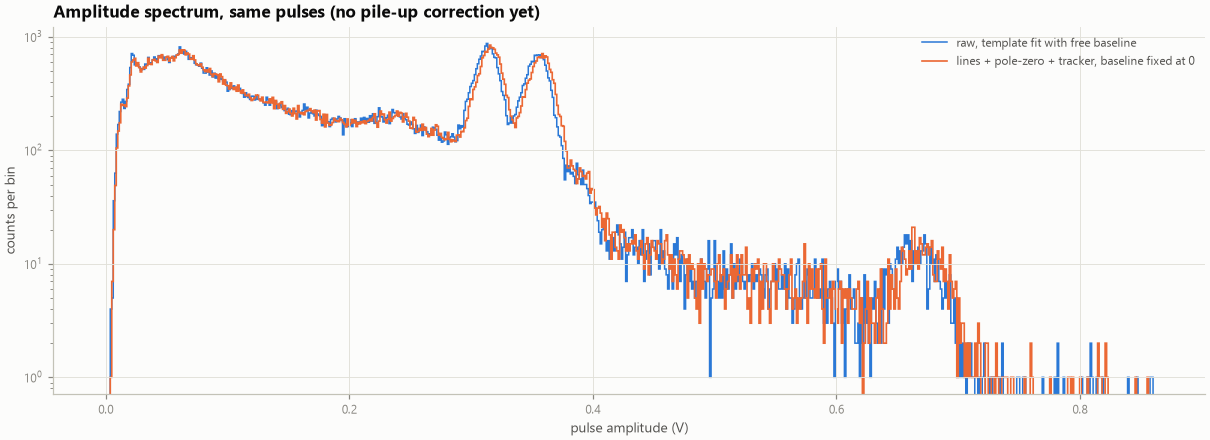
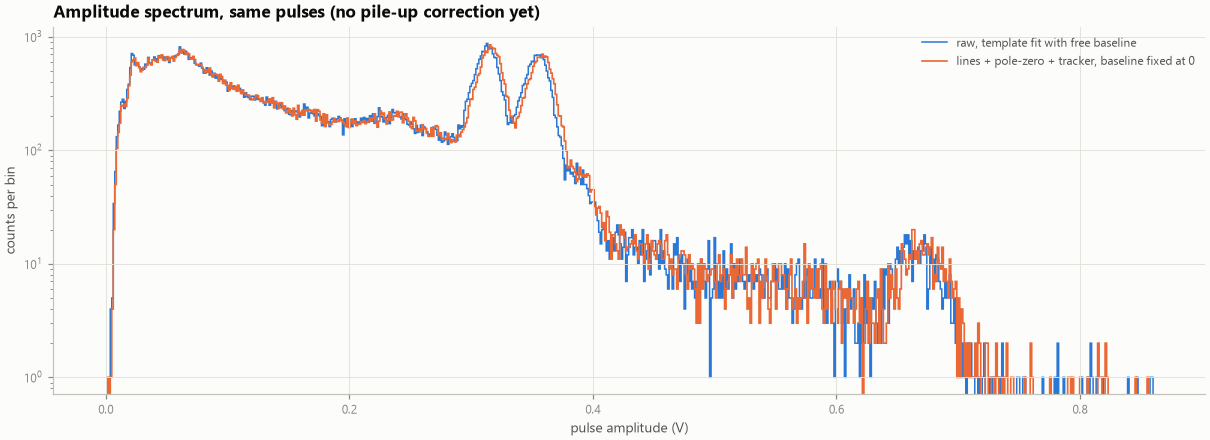
Fix pole-zero start state; speed up signal and line detection
PoleZero started "at rest" on the first sample, which the filter's
large DC gain turned into a slowly decaying offset of up to ~0.2 V
(masked by the baseline tracker). It now starts at the input's mean
level (0 after offset removal). Step-3 evaluation regenerated: the
pole-zero-only configurations improve; the recommended chain is
unchanged (pre-pulse baseline robust sigma 0.45 mV).

Speed-ups: noise_sigma on the central 131k samples, cumulative-sum
edge_signal, multithreaded scipy FFT and a cached window in line
detection.

diff --git a/gammaspec/signal.py b/gammaspec/signal.py
@@ -30,9 +30,16 @@ def robust_sigma(x: np.ndarray) -> float:
     return float(_MAD_TO_SIGMA * np.median(np.abs(x - np.median(x))))
 
 
-def noise_sigma(x: np.ndarray) -> float:
-    """White-noise sigma from first differences. Insensitive to pulses and slow baseline changes."""
-    return robust_sigma(np.diff(np.asarray(x, dtype=np.float64))) / np.sqrt(2.0)
+def noise_sigma(x: np.ndarray, max_samples: int = 1 << 17) -> float:
+    """White-noise sigma from first differences. Insensitive to pulses and slow baseline changes.
+
+    Uses at most ``max_samples`` (the central part): plenty for a robust estimate, and fast.
+    """
+    x = np.asarray(x, dtype=np.float64)
+    if x.size > max_samples:
+        a = (x.size - max_samples) // 2
+        x = x[a: a + max_samples]
+    return robust_sigma(np.diff(x)) / np.sqrt(2.0)
 
 
 def edge_signal(x: np.ndarray, gap: int = 2, avg: int = 3) -> np.ndarray:
@@ -44,7 +51,8 @@ def edge_signal(x: np.ndarray, gap: int = 2, avg: int = 3) -> np.ndarray:
     x = np.asarray(x, dtype=np.float64)
     lag = gap + avg - 1
     d = np.zeros_like(x)
-    ref = sliding_window_view(x, avg).mean(axis=1)  # ref[i] = mean(x[i:i+avg])
+    cs = np.concatenate([[0.0], np.cumsum(x)])
+    ref = (cs[avg:] - cs[:-avg]) / avg               # ref[i] = mean(x[i:i+avg])
     d[lag:] = x[lag:] - ref[: x.size - lag]
     return d
 

diff --git a/gammaspec/baseline.py b/gammaspec/baseline.py
@@ -95,13 +95,17 @@ class PoleZero:
 
     name = "pole_zero"
 
-    def __init__(self, design: PoleZeroDesign):
+    def __init__(self, design: PoleZeroDesign, initial_level: float = 0.0):
         self.design = design
+        self.initial_level = initial_level
         self._zi = None
 
     def process(self, x: np.ndarray) -> np.ndarray:
-        if self._zi is None:  # start "at rest" on the first sample's level
-            self._zi = lfilter_zi(self.design.b, self.design.a) * x[0]
+        # Start at rest on the input's mean level (0 after offset removal). Starting on the
+        # first sample instead would multiply that single noisy value by the filter's large
+        # DC gain and leave a slowly decaying offset.
+        if self._zi is None:
+            self._zi = lfilter_zi(self.design.b, self.design.a) * self.initial_level
         y, self._zi = lfilter(self.design.b, self.design.a, x, zi=self._zi)
         return y
 

diff --git a/gammaspec/interference.py b/gammaspec/interference.py
@@ -26,8 +26,16 @@ from __future__ import annotations
 
 from dataclasses import dataclass, field
 
+from functools import lru_cache
+
 import numpy as np
+import scipy.fft as sfft
 from scipy.ndimage import maximum_filter, median_filter
+
+
+@lru_cache(maxsize=4)
+def _hann(n: int) -> np.ndarray:
+    return np.hanning(n)
 
 
 @dataclass
@@ -52,7 +60,7 @@ def detect_lines(x: np.ndarray, free: np.ndarray, fs: float, cfg: LineRemovalCon
     """Frequencies (Hz) of narrow lines in the pulse-free part of ``x``, merged to block resolution."""
     n = x.size
     xm = np.where(free, x - x[free].mean(), 0.0)
-    P = np.abs(np.fft.rfft(xm * np.hanning(n))) ** 2
+    P = np.abs(sfft.rfft(xm * _hann(n), workers=-1)) ** 2
     f = np.fft.rfftfreq(n, 1.0 / fs)
     floor = median_filter(P, size=cfg.median_width, mode="nearest")
     ratio = P / np.maximum(floor, np.finfo(float).tiny)

diff --git a/docs/baseline-restoration.md b/docs/baseline-restoration.md
@@ -90,20 +90,20 @@ with a free baseline per pulse (`b free`) or with the baseline fixed at zero (`b
 | Configuration | Noise σ (mV) | Baseline before pulse: robust σ (mV) | Pulses > 5 mV off | Tail at +60 samples | FWHM 1173 / 1332 keV, b free | FWHM, b = 0 |
 |---|---|---|---|---|---|---|
 | raw | 1.69 | 2.14 | 21.9 % | −3.5 % | 6.58 / 5.91 % | 7.81 / 6.57 % |
-| lines | 0.50 | 2.15 | 21.9 % | −3.6 % | 6.58 / 5.92 % | 7.81 / 6.56 % |
-| tracker only | 1.68 | 0.77 | 1.7 % | −1.7 % | 6.58 / 5.96 % | 6.65 / 5.99 % |
-| pole-zero | 1.68 | 3.44 | 34.0 % | +0.3 % | 6.61 / 5.90 % | 8.02 / 6.82 % |
-| lines + pole-zero | 0.50 | 3.39 | 33.6 % | +0.2 % | 6.60 / 5.90 % | 8.01 / 6.90 % |
-| **lines + pole-zero + tracker** | **0.50** | **0.46** | **0.5 %** | **+0.2 %** | 6.59 / 5.89 % | **6.51 / 5.93 %** |
+| lines | 0.49 | 2.15 | 21.9 % | −3.6 % | 6.58 / 5.92 % | 7.81 / 6.56 % |
+| tracker only | 1.69 | 0.77 | 1.7 % | −1.7 % | 6.58 / 5.96 % | 6.65 / 5.99 % |
+| pole-zero | 1.68 | 2.68 | 21.6 % | +0.3 % | 6.60 / 5.89 % | 7.68 / 6.75 % |
+| lines + pole-zero | 0.49 | 2.68 | 21.6 % | +0.3 % | 6.59 / 5.89 % | 7.70 / 6.74 % |
+| **lines + pole-zero + tracker** | **0.49** | **0.45** | **0.4 %** | **+0.2 %** | 6.59 / 5.89 % | **6.50 / 5.93 %** |
 
-**Pulses on the tail of an earlier pulse** (60–300 samples after it; 43,470 pulses)
+**Pulses on the tail of an earlier pulse** (60–300 samples after it; 43,456 pulses)
 compared with clean pulses (more than 300 samples after):
 
 | Configuration, fit | Peak position, on tail vs clean | FWHM on tail (clean) |
 |---|---|---|
-| raw, b = 0 (like thresholding) | **−1.6 %** (0.3076 vs 0.3132 V) | **7.94 / 6.82 %** (6.62 / 5.96 %) |
-| raw, b free | −0.3 % | 6.64 / 5.99 % (6.57 / 5.82 %) |
-| **lines + pole-zero + tracker, b = 0** | **0.0 %** (0.3158 vs 0.3157 V) | **6.51 / 5.93 %** (6.47 / 5.84 %) |
+| raw, b = 0 (like thresholding) | **−1.6 %** (0.3076 vs 0.3132 V) | **7.94 / 6.82 %** (6.62 / 5.97 %) |
+| raw, b free | −0.3 % | 6.64 / 5.98 % (6.57 / 5.82 %) |
+| **lines + pole-zero + tracker, b = 0** | **0.0 %** (0.3158 vs 0.3157 V) | **6.50 / 5.93 %** (6.47 / 5.83 %) |
 
 ![baseline and tail](img/restoration_source_baseline_and_tail.png)
 
@@ -112,8 +112,8 @@ compared with clean pulses (more than 300 samples after):
 | Configuration | Noise σ (mV) | Baseline robust σ (mV) | FWHM ⁴⁰K, b free | FWHM, b = 0 |
 |---|---|---|---|---|
 | raw | 6.31 | 1.30 | 6.64 % | 6.93 % |
-| lines | 4.00 | 1.13 | 6.58 % | 6.66 % |
-| lines + pole-zero + tracker | 3.98 | 1.07 | 6.83 % | 6.59 % |
+| lines | 3.99 | 1.13 | 6.61 % | 6.65 % |
+| lines + pole-zero + tracker | 3.97 | 1.08 | 6.78 % | 6.60 % |
 
 In the noisy background captures, line removal leaves broadband noise (σ ≈ 4 mV) that
 can't be filtered without harming pulses. ⁴⁰K has few counts, so these FWHM values are
